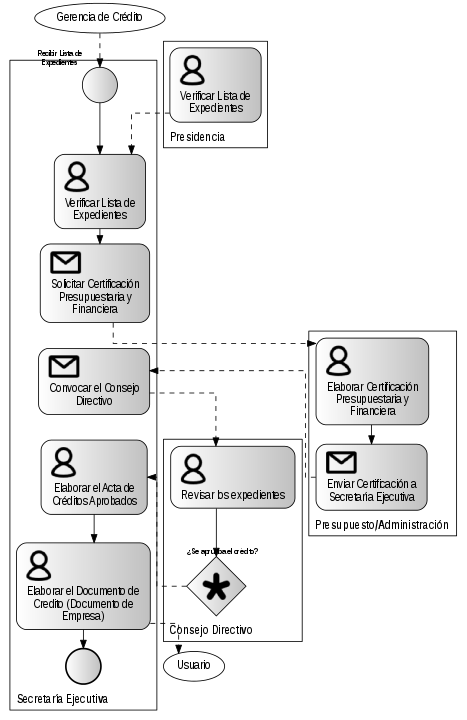
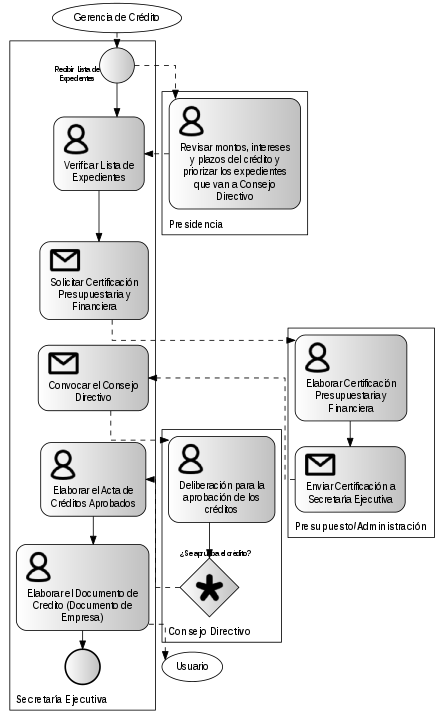
Añadir observaciones de Presidencia al Informe1

Changed region(s): [[0.0, 0.0, 0.9955, 1.0]]

diff --git a/doc/informe1/_graphviz/fomdes_proc3.py b/doc/informe1/_graphviz/fomdes_proc3.py
@@ -41,7 +41,7 @@ se_edges = {"se0": {"se1": {}},
 
 SE = add_cluster(F, "se", "Secretaría Ejecutiva", se_cluster, se_edges)
 
-p_cluster = {"p0": ("Verificar Lista de Expedientes", "human")}
+p_cluster = {"p0": ("Revisar montos, intereses y plazos del crédito y priorizar los expedientes que van a Consejo Directivo", "human")}
 
 p_edges = {}
 
@@ -54,7 +54,7 @@ pr_edges = {"pr0": {"pr1": {}}}
 
 PR = add_cluster(F, "pr", "Presupuesto/Administración", pr_cluster, pr_edges)
 
-cd_cluster = {"cd0": ("Revisar los expedientes", "human"),
+cd_cluster = {"cd0": ("Deliberación para la aprobación de los créditos", "human"),
               "cd1": ("¿Se aprueba el crédito?", "complex")}
 
 cd_edges = {"cd0": {"cd1": {}}}
@@ -64,6 +64,7 @@ CD = add_cluster(F, "cd", "Consejo Directivo", cd_cluster, cd_edges)
 # F.add_node("SIGEFOMDES Crédito", image=IMAGE_PATH + "database.png", shape="plaintext", label="", xlabel="SIGEFOMDES Crédito")
 
 global_edges = {"Gerencia de Crédito":  {"se0": {"style": "dashed"}},
+                "se0": {"p0": {"style": "dashed"}},
                 "p0": {"se1": {"style": "dashed"}},
                 "se2": {"pr0": {"style": "dashed"}},
                 "pr1": {"se3": {"style": "dashed"}},

diff --git a/doc/informe1/procesos.rst b/doc/informe1/procesos.rst
@@ -132,17 +132,17 @@ relativo a la asignación de créditos, acompañamiento en su ejecución y recup
          - | Actividades
          - | Salida
        * - Lista de expedientes
-         - Revisar montos, intereses y plazos del crédito y aprobar los expedientes que van a Consejo Directivo
+         - Revisar montos, intereses y plazos del crédito y priorizar los expedientes que van a Consejo Directivo
          - Lista de expedientes
-       * - Lista de expedientes
-         - Revisar lista de expedientes
-         - Lista de expedientes priorizada
-       * - Expediente
+       * - Plan de inversión, decisiones previas del Consejo Directivo y Estados financieros
          - Elaborar certificación presupuestaria y financiera por sector
          - Certificación presupuestaria y financiera por sector
-       * - Lista de expediente para Consejo Directivo
+       * - Lista de expedientes para Consejo Directivo
          - Realizar agenda con expedientes priorizados y convocar al Consejo Directivo
-         - Acta de créditos aprobados
+         - Convocatoria del Consejo Directivo
+       * - Certificación presupuestaria y financiera, lista de expedientes priorizada
+         - Deliberar sobre aprobación de los créditos
+         - Acta de decisión del Consejo Directivo
        * - Acta de créditos aprobados
          - Elaborar el documento de crédito y de ser necesario el documento de la empresa
          - Documento de crédito y documento de constitución de empresa

diff --git a/doc/informe1/requerimientos.rst b/doc/informe1/requerimientos.rst
@@ -630,7 +630,7 @@ Historias de usuario
             | Para
             | (Objetivo)
         * - Presidente
-          - Conocer cuánto fue el ingreso diario de caja
+          - Monitorizar el ingreso diario de caja y cumplimiento de metas
           - Evaluar la recuperación de fondos por la institución
         * - Presidente
           - Revisar y firmar los cheques
@@ -638,6 +638,12 @@ Historias de usuario
         * - Presidente
           - Enviar los cheques firmados a secretaria ejecutiva
           - Dar seguimiento al proceso de liquidación
+        * - Presidente
+          - Revisar montos, intereses y plazos de las solicitudes de crédito
+          - Priorizar expedientes que se dirigen al Consejo Directivo
+        * - Presidente
+          - Evaluar y valorar indicadores clave de rendimiento y variables políticas
+          - Toma de decisiones estratégica de la Institución
 
 
 .. index:: Analista de crédito
